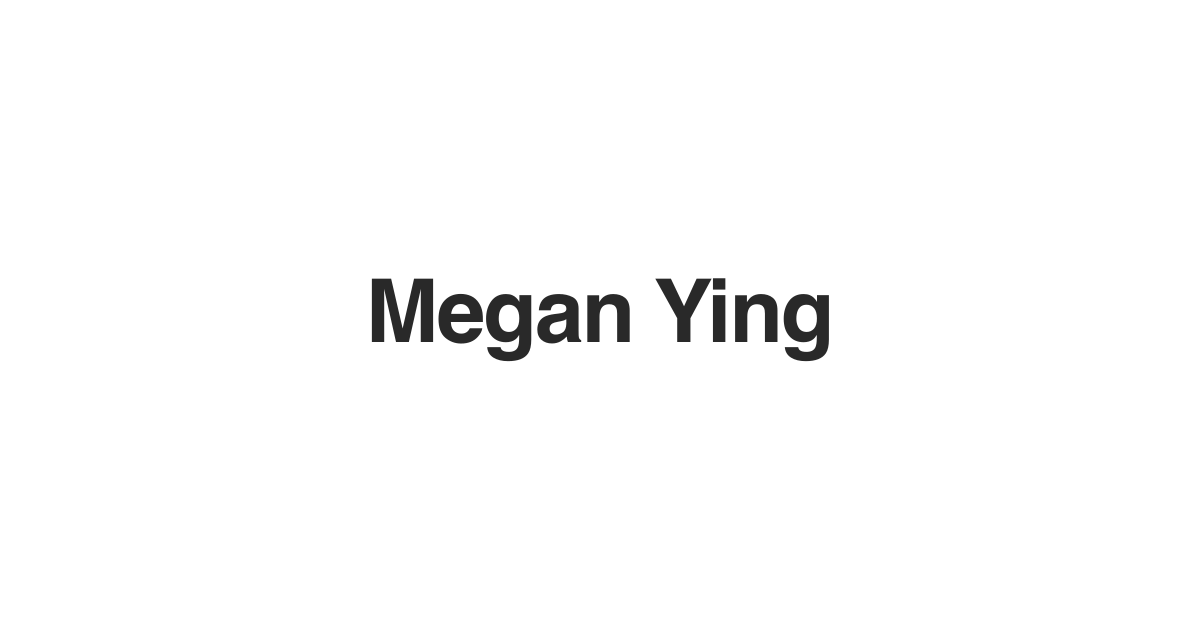
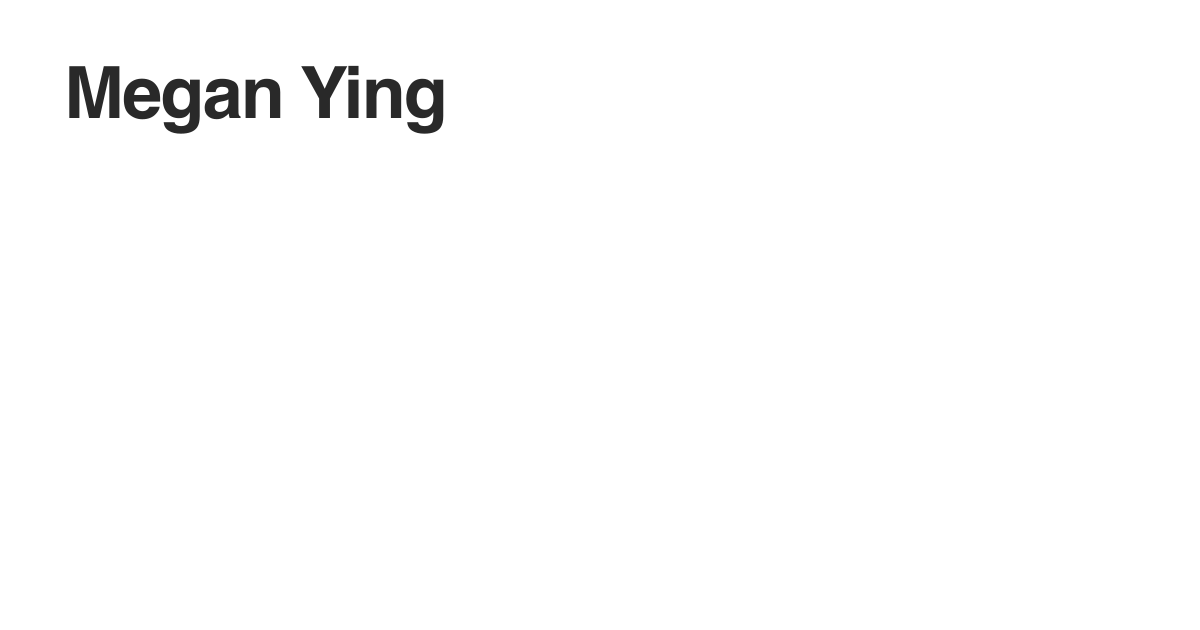
Add project-specific link previews with shared upper-left identity

Changed region(s): [[0.0308, 0.0905, 0.37, 0.2111], [0.3083, 0.4222, 0.5242, 0.573], [0.555, 0.4222, 0.7092, 0.573]]

diff --git a/lib/site.ts b/lib/site.ts
@@ -1,4 +1,5 @@
 import type { Metadata } from "next";
+import type { Project } from "@/lib/projects";
 
 export const site = {
   name: "Megan Ying",
@@ -12,10 +13,19 @@ export const site = {
   },
 };
 
+export function projectPreviewImage(project: Pick<Project, "slug" | "title">) {
+  return {
+    ...site.previewImage,
+    url: `/assets/photos/previews/${project.slug}.png`,
+    alt: `${site.name} — ${project.title}`,
+  };
+}
+
 export function pageMetadata(
   title: string,
   description: string,
   path: string,
+  previewImage = site.previewImage,
 ): Metadata {
   const fullTitle = title === site.name ? site.name : `${title} — ${site.name}`;
   return {
@@ -28,13 +38,13 @@ export function pageMetadata(
       title: fullTitle,
       description,
       url: path,
-      images: [site.previewImage],
+      images: [previewImage],
     },
     twitter: {
       card: "summary_large_image",
       title: fullTitle,
       description,
-      images: [{ url: site.previewImage.url, alt: site.previewImage.alt }],
+      images: [{ url: previewImage.url, alt: previewImage.alt }],
     },
   };
 }

diff --git a/app/projects/[slug]/page.tsx b/app/projects/[slug]/page.tsx
@@ -1,7 +1,7 @@
 import { notFound } from "next/navigation";
 import { ProjectDetail } from "@/components/project-detail";
 import { getProject, projects, projectHref } from "@/lib/projects";
-import { pageMetadata } from "@/lib/site";
+import { pageMetadata, projectPreviewImage } from "@/lib/site";
 
 export const dynamicParams = false;
 
@@ -15,7 +15,12 @@ export async function generateMetadata({ params }: Props) {
   const { slug } = await params;
   const project = getProject(slug);
   if (!project) notFound();
-  return pageMetadata(project.title, project.description, projectHref(project));
+  return pageMetadata(
+    project.title,
+    project.description,
+    projectHref(project),
+    projectPreviewImage(project),
+  );
 }
 
 export default async function ProjectPage({ params }: Props) {

diff --git a/README.md b/README.md
@@ -46,19 +46,19 @@ Then open [localhost:3001](http://127.0.0.1:3001/).
 - `content/projects/`: editable JSX narratives, figures, tables, and videos for all nine case studies. These render as Server Components; no raw HTML injection is used.
 - `styles/tokens.css`: the design system’s visual tokens.
 - `styles/globals.css`: shared component styles. See [DESIGN.md](DESIGN.md) for the design rules.
-- `lib/site.ts`: site identity, canonical URLs, and shared Open Graph and Twitter preview metadata.
-- `public/assets/`: project images, videos, slides, PDF, STEP model, and the link preview image.
+- `lib/site.ts`: site identity, canonical URLs, and Open Graph and Twitter preview metadata for the homepage and each project.
+- `public/assets/`: project images, videos, slides, PDF, STEP model, and link preview images.
 - `scripts/`: legacy-link generation, site-asset generation, export finalization, and export verification.
 
 The presentation viewer retains its buttons, arrow-key navigation, live slide count, and full slide fallback when JavaScript is disabled. Project and skill disclosures use native `<details>`.
 
 ## Link preview and icons
 
-The 1200 × 630 link preview at `public/assets/photos/portfolio-preview.png` displays only “Megan Ying”, centered in charcoal sans-serif type on white. Every page references it through `lib/site.ts`, with page-specific titles and descriptions.
+All link previews are 1200 × 630 px with “Megan Ying” in the upper-left corner, using the site’s charcoal sans-serif type on white. The homepage preview at `public/assets/photos/portfolio-preview.png` displays only the name. Each project has its own preview at `public/assets/photos/previews/<slug>.png`, with its title below the name in muted gray. Open Graph and Twitter metadata reference the corresponding image through `lib/site.ts`.
 
 Next.js adds the browser and home-screen icon metadata from `app/icon.svg`, `app/favicon.ico`, and `app/apple-icon.png`. The ICO includes 16, 32, and 48 px fallbacks; the Apple icon is 180 × 180 px. SVG and Apple icon URLs receive Next.js-generated fingerprints.
 
-After changing the palette or profile name, regenerate the assets:
+After changing the palette, profile name, or projects, regenerate the assets:
 
 ```sh
 npm run generate:assets
